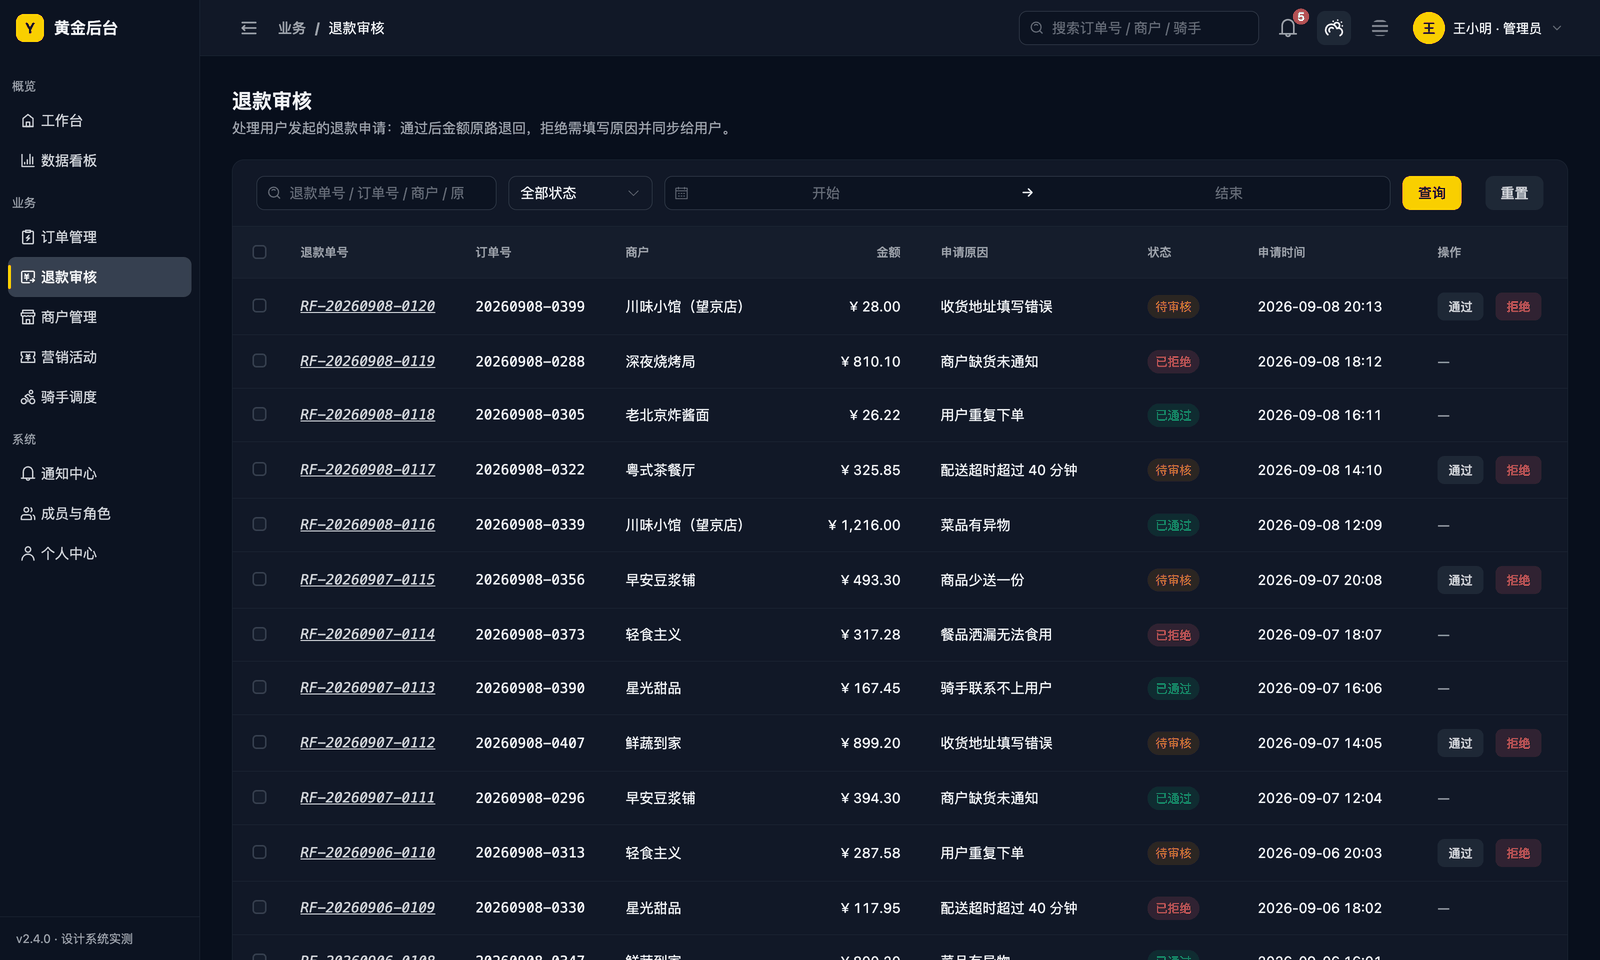
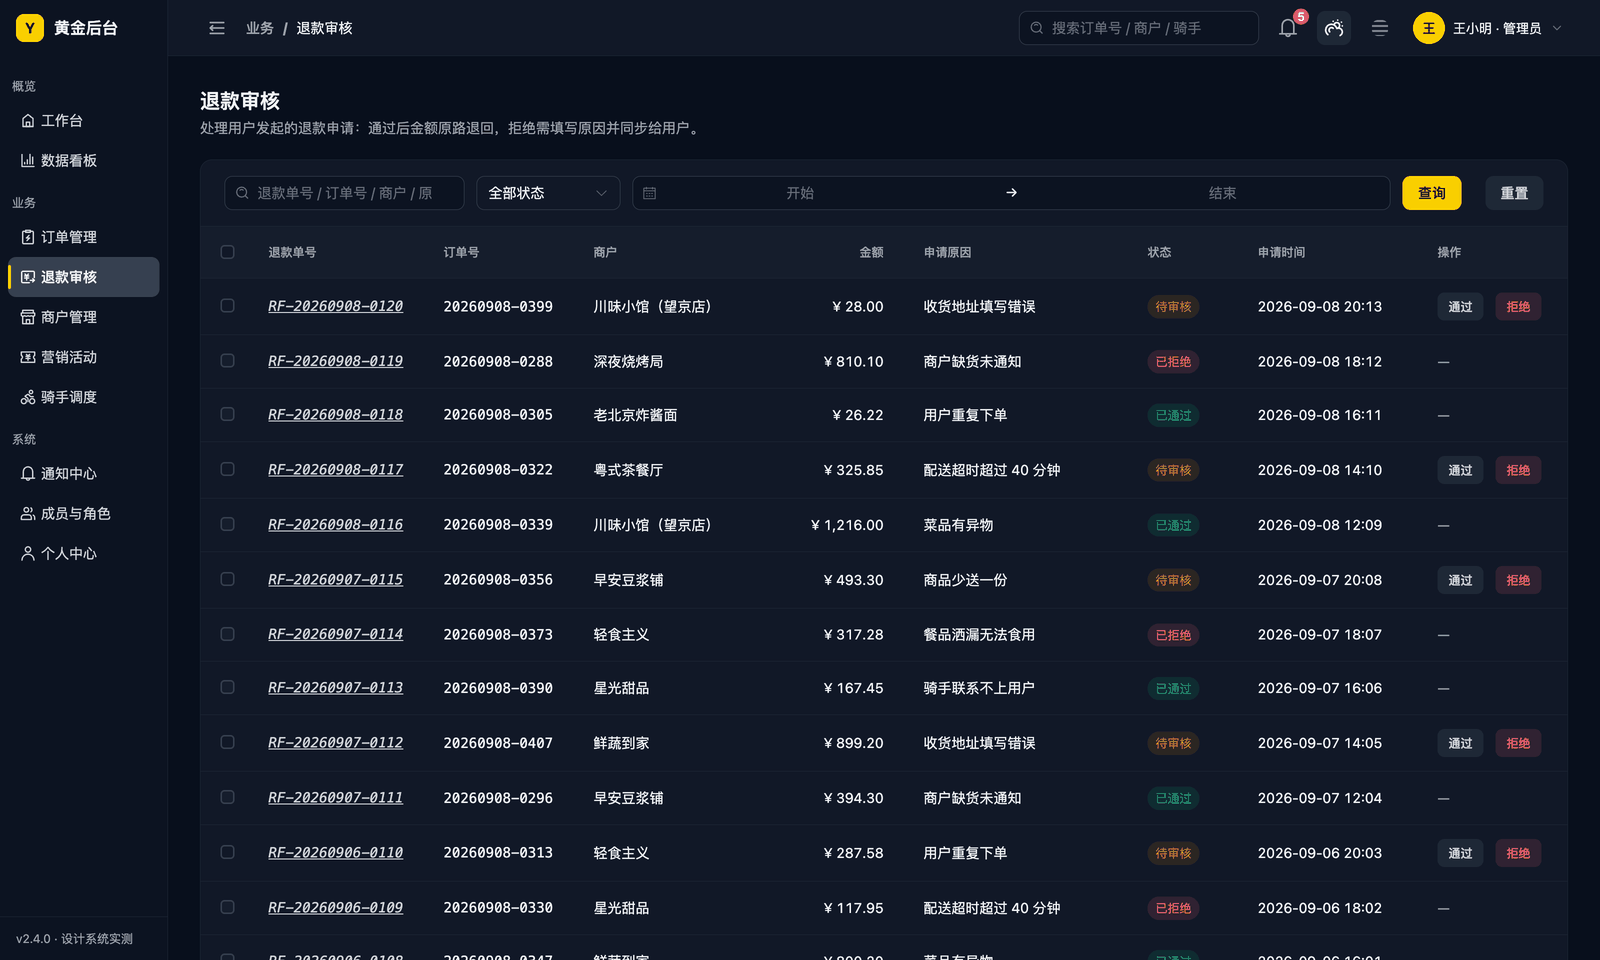
1.3.0 侧栏收窄到 168、折叠图标居中
- size.sidebar 200 → 168（中文 3～5 字标签，色块右侧空白）；侧栏标签 ≤ 6 个汉字
- 桥接：折叠态 tooltip 触发层内边距清零居中；IconPark 图标折叠时继承 lg
- 首图重拍

diff --git a/citrine/seeds/brand-yellow-e/bridge/element-plus.css b/citrine/seeds/brand-yellow-e/bridge/element-plus.css
@@ -299,6 +299,9 @@
 .el-menu--collapse > .el-menu-item, .el-menu--collapse > .el-sub-menu > .el-sub-menu__title, .el-menu--collapse > .el-menu-item-group > ul > .el-menu-item, .el-menu--collapse > .el-menu-item-group > ul > .el-sub-menu > .el-sub-menu__title { width: var(--control-height-lg); margin: 0 auto; padding: 0; justify-content: center; }
 .el-menu--collapse .el-menu-item-group__title { display: none; }
 .el-menu--collapse .el-menu-item .el-icon, .el-menu--collapse .el-sub-menu__title .el-icon { font-size: var(--icon-size-lg); width: var(--icon-size-lg); height: var(--icon-size-lg); margin: 0; }   /* 折叠后只剩图标，升一档到 icon.size.lg */
+.el-menu--collapse .el-menu-item .el-icon .i-icon, .el-menu--collapse .el-sub-menu__title .el-icon .i-icon { font-size: inherit; }   /* IconPark 的 .i-icon 自带 md 字号，折叠时随 .el-icon 升到 lg */
+/* Element 折叠时把内容包进 .el-menu-tooltip__trigger（绝对定位铺满、左右各 12px 内边距）：40px 方块只剩 16px 内容区，20px 图标放不下就偏右 2px。内边距清零、居中 */
+.el-menu--collapse .el-menu-item .el-menu-tooltip__trigger, .el-menu--collapse .el-sub-menu__title .el-menu-tooltip__trigger { padding: 0; justify-content: center; }
 .el-menu--collapse .el-menu-item.is-active::before { left: calc((var(--control-height-lg) - var(--layout-sidebar-collapsed-width)) / 2); }
 
 /* ---- 其他：标签、分页、步骤、标签页、提示、消息 ---- */

diff --git a/citrine/testbed/golden-admin/app/src/styles/bridge/element-plus.css b/citrine/testbed/golden-admin/app/src/styles/bridge/element-plus.css
@@ -299,6 +299,9 @@
 .el-menu--collapse > .el-menu-item, .el-menu--collapse > .el-sub-menu > .el-sub-menu__title, .el-menu--collapse > .el-menu-item-group > ul > .el-menu-item, .el-menu--collapse > .el-menu-item-group > ul > .el-sub-menu > .el-sub-menu__title { width: var(--control-height-lg); margin: 0 auto; padding: 0; justify-content: center; }
 .el-menu--collapse .el-menu-item-group__title { display: none; }
 .el-menu--collapse .el-menu-item .el-icon, .el-menu--collapse .el-sub-menu__title .el-icon { font-size: var(--icon-size-lg); width: var(--icon-size-lg); height: var(--icon-size-lg); margin: 0; }   /* 折叠后只剩图标，升一档到 icon.size.lg */
+.el-menu--collapse .el-menu-item .el-icon .i-icon, .el-menu--collapse .el-sub-menu__title .el-icon .i-icon { font-size: inherit; }   /* IconPark 的 .i-icon 自带 md 字号，折叠时随 .el-icon 升到 lg */
+/* Element 折叠时把内容包进 .el-menu-tooltip__trigger（绝对定位铺满、左右各 12px 内边距）：40px 方块只剩 16px 内容区，20px 图标放不下就偏右 2px。内边距清零、居中 */
+.el-menu--collapse .el-menu-item .el-menu-tooltip__trigger, .el-menu--collapse .el-sub-menu__title .el-menu-tooltip__trigger { padding: 0; justify-content: center; }
 .el-menu--collapse .el-menu-item.is-active::before { left: calc((var(--control-height-lg) - var(--layout-sidebar-collapsed-width)) / 2); }
 
 /* ---- 其他：标签、分页、步骤、标签页、提示、消息 ---- */

diff --git a/citrine/previews/yellow-admin/seed-dist/index.css b/citrine/previews/yellow-admin/seed-dist/index.css
@@ -249,7 +249,7 @@
   --layout-search-width: var(--size-search);
   --size-sidebar-collapsed: 64px;
   --layout-sidebar-collapsed-width: var(--size-sidebar-collapsed);
-  --size-sidebar: 200px;
+  --size-sidebar: 168px;
   --layout-sidebar-width: var(--size-sidebar);
   --size-topbar: 56px;
   --layout-topbar-height: var(--size-topbar);

diff --git a/citrine/previews/yellow-admin/seed-dist/tokens.css b/citrine/previews/yellow-admin/seed-dist/tokens.css
@@ -249,7 +249,7 @@
   --layout-search-width: var(--size-search);
   --size-sidebar-collapsed: 64px;
   --layout-sidebar-collapsed-width: var(--size-sidebar-collapsed);
-  --size-sidebar: 200px;
+  --size-sidebar: 168px;
   --layout-sidebar-width: var(--size-sidebar);
   --size-topbar: 56px;
   --layout-topbar-height: var(--size-topbar);

diff --git a/citrine/previews/yellow-admin/tokens-base.css b/citrine/previews/yellow-admin/tokens-base.css
@@ -60,7 +60,7 @@
   --illustration-size-md: 120px;
   --avatar-size-sm: 28px;
   --avatar-size-md: 32px;
-  --layout-sidebar-width: 200px;
+  --layout-sidebar-width: 168px;
   --layout-topbar-height: 56px;
   --layout-search-width: 240px;
   --layout-sidebar-collapsed-width: 64px;

diff --git a/citrine/seeds/brand-yellow-e/design-system/DESIGN.md b/citrine/seeds/brand-yellow-e/design-system/DESIGN.md
@@ -64,7 +64,7 @@
 - 圆角五档，按容器层级递减：`radius.xl` 弹窗、抽屉（露出的两角）、登录卡等最外层容器；`radius.lg` 卡片、面板、统计卡；`radius.md` 按钮、输入框、菜单项、下拉浮层、提示条、侧栏选中块；`radius.sm` 标签、分页项、分段选择器内项、骨架条；`radius.xs` 勾选框等 ≤ 16px 的元素；胶囊与圆形一律 `radius.full`。**嵌套规则**：内元素的圆角必须小于外框，相邻嵌套层级至少差一档（弹窗 xl → 内部卡片 lg → 按钮 md → 标签 sm → 勾选框 xs）；同一层级的并列元素用同一档。
 - 密度默认舒适（品牌决定）。需要高密度的表格页或运营大屏在 `<html>` 上加 class `compact` 启用 compact Theme：控件高度、卡片间距、内容区留白、表格单元格内边距各收一档，字号字重颜色一律不变；`compact` 与 `dark` 覆写的 token 不相交，可以叠加。
 - 横向表单（左标签右输入）是国内中后台的默认形态，标签列宽全站统一用 `layout.form.label-width`，不按页面手调；纵向表单只用于筛选区和窄卡片。标签文案不超过 6 个汉字（`layout.form.label-width` 112px 在 13px 字号下容纳 6 个汉字 + 必填星号；无星号可到 7 字），说明性内容放帮助文字，不放标签。描述列表（详情页的键值对）的标签列也用同一个宽度。
-- 侧栏折叠后的宽度是 `layout.sidebar.collapsed-width`，折叠态只剩图标。
+- 侧栏宽度 `layout.sidebar.width` 按中文菜单项定：3～5 个汉字的标签加图标只占 100px 左右，宽了色块右侧就是一片空白（200 时用户反馈"宽度浪费"），所以取 168（8px 外边距 + 152px 色块），**侧栏标签不超过 6 个汉字**。折叠后的宽度是 `layout.sidebar.collapsed-width`，折叠态只剩图标，图标必须在 40px 方块里几何居中（Element 折叠时的 tooltip 触发层带 12px 内边距，会把 20px 图标挤偏 2px，桥接已清零）。
 - 表格单元格内边距用 `table.cell.padding-y / -x`，密度差异由 compact Theme 承担，页面里不改这两个值。
 - 当前种子只确认了桌面宽度（≥1280px）的布局；断点与响应式规则等目标项目有真实需求时再作为提案加入，不预先猜测。已确认的两条：≤1440px 侧栏默认折叠；筛选栏分「条件区」和「动作区」两组，折行时动作区整体换到下一行并右对齐，不允许「查询」单独掉到左下角。
 

diff --git a/citrine/testbed/golden-admin/app/design-system/DESIGN.md b/citrine/testbed/golden-admin/app/design-system/DESIGN.md
@@ -64,7 +64,7 @@
 - 圆角五档，按容器层级递减：`radius.xl` 弹窗、抽屉（露出的两角）、登录卡等最外层容器；`radius.lg` 卡片、面板、统计卡；`radius.md` 按钮、输入框、菜单项、下拉浮层、提示条、侧栏选中块；`radius.sm` 标签、分页项、分段选择器内项、骨架条；`radius.xs` 勾选框等 ≤ 16px 的元素；胶囊与圆形一律 `radius.full`。**嵌套规则**：内元素的圆角必须小于外框，相邻嵌套层级至少差一档（弹窗 xl → 内部卡片 lg → 按钮 md → 标签 sm → 勾选框 xs）；同一层级的并列元素用同一档。
 - 密度默认舒适（品牌决定）。需要高密度的表格页或运营大屏在 `<html>` 上加 class `compact` 启用 compact Theme：控件高度、卡片间距、内容区留白、表格单元格内边距各收一档，字号字重颜色一律不变；`compact` 与 `dark` 覆写的 token 不相交，可以叠加。
 - 横向表单（左标签右输入）是国内中后台的默认形态，标签列宽全站统一用 `layout.form.label-width`，不按页面手调；纵向表单只用于筛选区和窄卡片。标签文案不超过 6 个汉字（`layout.form.label-width` 112px 在 13px 字号下容纳 6 个汉字 + 必填星号；无星号可到 7 字），说明性内容放帮助文字，不放标签。描述列表（详情页的键值对）的标签列也用同一个宽度。
-- 侧栏折叠后的宽度是 `layout.sidebar.collapsed-width`，折叠态只剩图标。
+- 侧栏宽度 `layout.sidebar.width` 按中文菜单项定：3～5 个汉字的标签加图标只占 100px 左右，宽了色块右侧就是一片空白（200 时用户反馈"宽度浪费"），所以取 168（8px 外边距 + 152px 色块），**侧栏标签不超过 6 个汉字**。折叠后的宽度是 `layout.sidebar.collapsed-width`，折叠态只剩图标，图标必须在 40px 方块里几何居中（Element 折叠时的 tooltip 触发层带 12px 内边距，会把 20px 图标挤偏 2px，桥接已清零）。
 - 表格单元格内边距用 `table.cell.padding-y / -x`，密度差异由 compact Theme 承担，页面里不改这两个值。
 - 当前种子只确认了桌面宽度（≥1280px）的布局；断点与响应式规则等目标项目有真实需求时再作为提案加入，不预先猜测。已确认的两条：≤1440px 侧栏默认折叠；筛选栏分「条件区」和「动作区」两组，折行时动作区整体换到下一行并右对齐，不允许「查询」单独掉到左下角。
 

diff --git a/citrine/testbed/legacy-shop/design-system/DESIGN.md b/citrine/testbed/legacy-shop/design-system/DESIGN.md
@@ -64,7 +64,7 @@
 - 圆角五档，按容器层级递减：`radius.xl` 弹窗、抽屉（露出的两角）、登录卡等最外层容器；`radius.lg` 卡片、面板、统计卡；`radius.md` 按钮、输入框、菜单项、下拉浮层、提示条、侧栏选中块；`radius.sm` 标签、分页项、分段选择器内项、骨架条；`radius.xs` 勾选框等 ≤ 16px 的元素；胶囊与圆形一律 `radius.full`。**嵌套规则**：内元素的圆角必须小于外框，相邻嵌套层级至少差一档（弹窗 xl → 内部卡片 lg → 按钮 md → 标签 sm → 勾选框 xs）；同一层级的并列元素用同一档。
 - 密度默认舒适（品牌决定）。需要高密度的表格页或运营大屏在 `<html>` 上加 class `compact` 启用 compact Theme：控件高度、卡片间距、内容区留白、表格单元格内边距各收一档，字号字重颜色一律不变；`compact` 与 `dark` 覆写的 token 不相交，可以叠加。
 - 横向表单（左标签右输入）是国内中后台的默认形态，标签列宽全站统一用 `layout.form.label-width`，不按页面手调；纵向表单只用于筛选区和窄卡片。标签文案不超过 6 个汉字（`layout.form.label-width` 112px 在 13px 字号下容纳 6 个汉字 + 必填星号；无星号可到 7 字），说明性内容放帮助文字，不放标签。描述列表（详情页的键值对）的标签列也用同一个宽度。
-- 侧栏折叠后的宽度是 `layout.sidebar.collapsed-width`，折叠态只剩图标。
+- 侧栏宽度 `layout.sidebar.width` 按中文菜单项定：3～5 个汉字的标签加图标只占 100px 左右，宽了色块右侧就是一片空白（200 时用户反馈"宽度浪费"），所以取 168（8px 外边距 + 152px 色块），**侧栏标签不超过 6 个汉字**。折叠后的宽度是 `layout.sidebar.collapsed-width`，折叠态只剩图标，图标必须在 40px 方块里几何居中（Element 折叠时的 tooltip 触发层带 12px 内边距，会把 20px 图标挤偏 2px，桥接已清零）。
 - 表格单元格内边距用 `table.cell.padding-y / -x`，密度差异由 compact Theme 承担，页面里不改这两个值。
 - 当前种子只确认了桌面宽度（≥1280px）的布局；断点与响应式规则等目标项目有真实需求时再作为提案加入，不预先猜测。已确认的两条：≤1440px 侧栏默认折叠；筛选栏分「条件区」和「动作区」两组，折行时动作区整体换到下一行并右对齐，不允许「查询」单独掉到左下角。
 

diff --git a/citrine/testbed/golden-admin/FINDINGS.md b/citrine/testbed/golden-admin/FINDINGS.md
@@ -80,6 +80,7 @@
 | D31 | 关闭 ×、el-tag 关闭、表格操作链接命中区 < 24px | 没有最小命中区 token | token + 桥接 + 页面 | 新增 `control.hit-min` 24px；桥接给 tag 关闭 / 输入清除外扩；`td .link`、`.tip-x`、`.go` 撑到 24 |
 | D32 | 派单弹窗选项卡只有内容宽、居中漂着 | Element radio-group 默认 `align-items: center`，纵向排列时把子项挤成内容宽 | 配方 + 页面 | `.orders` 改 `align-items: stretch`；配方表新增「选项卡片」一行注明这个坑 |
 | D33 | 结算表退款列逐行红字、合计行黑字；"确认新密码"没有必填星号；改派抽屉文案"6 位空闲骑手"里 3 位忙碌 | 页面细节 | 页面 | 退款列改普通数字（退款不是涨跌语义）；补 required 规则；改文案 |
+| D62 | 侧栏宽度浪费、折叠图标不居中（用户反馈） | 200px 侧栏对 3～5 字标签过宽；折叠触发层 12px 内边距把 20px 图标挤偏 2px，且 IconPark 字号未随 .el-icon 升档 | token + 桥接 | 1.3.0：`size.sidebar` 168；触发层内边距清零居中、图标继承 lg |
 | D61 | 主序列 3px 黄线在浅色下突兀（用户规则） | 折线按序列加粗 | 桥接配方 | 1.2.2：所有序列统一 2px |
 | D60 | 1.2.0 曲线"不够丝滑、偏硬"（用户反馈） | 平滑 0.3 在数据点处留折角 | 桥接主题 | 1.2.1：平滑 0.5 + smoothMonotone x + 圆头 |
 | D59 | 工作台订单趋势图"很奇怪"（用户反馈） | y 轴强制从 0、面积铺到 0 盖住对比序列、平滑 0.5 造起伏；两个图表组件各自取色 | 桥接 + 配方 | 1.2.0：新增 `bridge/echarts.js` 主题与 `trendLine` / `areaGradient` 配方，DESIGN 折线规则；组件改用桥接 |

diff --git a/citrine/seeds/brand-yellow-e/CHANGELOG.md b/citrine/seeds/brand-yellow-e/CHANGELOG.md
@@ -2,6 +2,11 @@
 
 版本策略：patch 只改描述与文档，以及让组件库遵守既有规则的桥接修正；minor 新增 token、改 token 值（视觉会变、名字不变，条目里必须写清肉眼可见的影响）或新增桥接 / 消费产物；major 才改名或删除 token，并附兼容 shim。
 
+## 1.3.0 — 2026-09-11（侧栏收窄 + 折叠图标居中）
+
+- **token 值变化（肉眼可见）**：`size.sidebar` 200 → 168。中文菜单项 3～5 个汉字加图标只占 100px 左右，200 时选中色块右侧一片空白（用户反馈"宽度浪费"）。168 = 两侧 8px 外边距 + 152px 色块，容纳图标 + 6 个汉字；DESIGN 新增"侧栏标签不超过 6 个汉字"。预览 tokens-base 同步，E/S 像素一致；1366 折叠检查通过。
+- 桥接：折叠态图标偏右 2px——Element 折叠时把内容包进带 12px 左右内边距的 tooltip 触发层，40px 方块只剩 16px 内容区，20px 图标放不下。触发层内边距清零、居中；IconPark 的 `.i-icon` 自带 md 字号，折叠时改为继承 `.el-icon` 的 lg，图标实际尺寸从 16 到 20。实测偏移 0。
+
 ## 1.2.2 — 2026-09-11（曲线统一细线）
 
 - 用户规则：折线所有序列统一 2px，不再给主序列加粗到 3px——浅色底上粗黄条突兀；主序列靠品牌黄识别。桥接 `trendLine` 去掉按序列加粗，DESIGN 折线规则同步。

diff --git a/citrine/seeds/brand-yellow-e/README.md b/citrine/seeds/brand-yellow-e/README.md
@@ -2,7 +2,7 @@
 
 > 种子目录代号仍是 `brand-yellow-e`（脚本与文档中的路径不变）；系统名称 Citrine（黄晶）见仓库根 README。
 
-版本 1.2.2 · 公司级中后台设计规范（单品牌线）· 变更见 [CHANGELOG.md](CHANGELOG.md)
+版本 1.3.0 · 公司级中后台设计规范（单品牌线）· 变更见 [CHANGELOG.md](CHANGELOG.md)
 
 一套已通过 `design-system-steward` `validate-system` / `build-tokens` / `guard` 的 DTCG 设计系统起点。复制进任何项目就是 Core + dark / compact 两个 Theme；视觉效果见 `../../previews/yellow-admin/`：`admin.html` 是工作台，`stress.html` 是登录、列表、表单、详情、反馈、折叠侧栏六类页面的压力测试（方案 S 全部由构建产物驱动）。
 

diff --git a/README.md b/README.md
@@ -4,7 +4,7 @@
 
 | 设计系统 | 定位 | 版本 |
 | --- | --- | --- |
-| [**Citrine · 黄晶**](citrine/) | 中后台 · 品牌黄唯一焦点 + 冷灰骨架 · 亮 / 暗 / 紧凑 · Element Plus / shadcn/ui / ECharts 桥接 · 给编码 Agent 的配方与验收基线 | 1.2.2 |
+| [**Citrine · 黄晶**](citrine/) | 中后台 · 品牌黄唯一焦点 + 冷灰骨架 · 亮 / 暗 / 紧凑 · Element Plus / shadcn/ui / ECharts 桥接 · 给编码 Agent 的配方与验收基线 | 1.3.0 |
 
 [![Citrine](citrine/docs/screenshots/hero.png)](citrine/)
 
